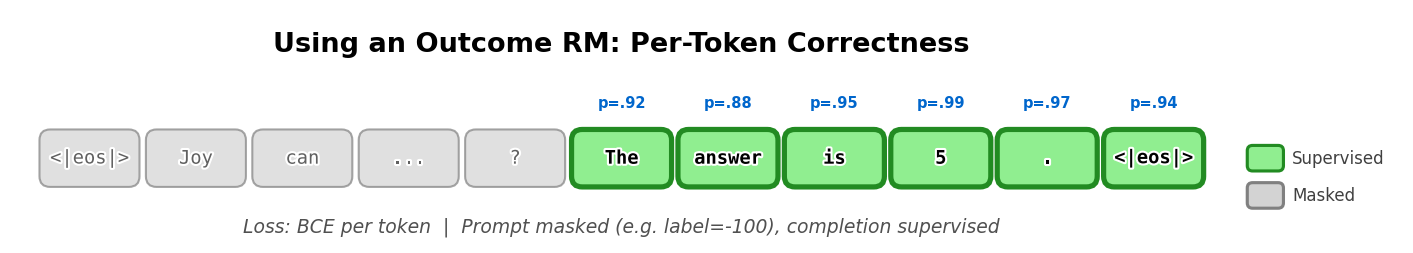
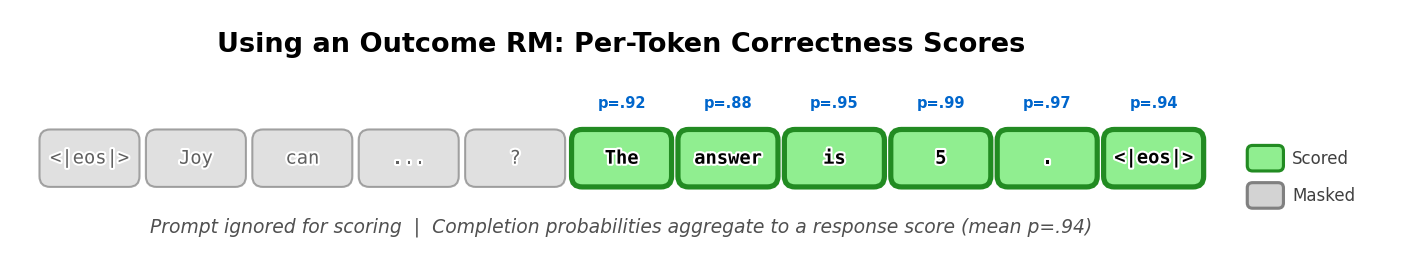
[codex] Clarify ORM inference figure (#423)

Changed region(s): [[0.1557, 0.1107, 0.7473, 0.2213], [0.0934, 0.8577, 0.7785, 0.9407], [0.903, 0.6087, 0.9965, 0.664]]

diff --git a/diagrams/scripts/generate_token_strips.py b/diagrams/scripts/generate_token_strips.py
@@ -34,6 +34,8 @@ class TokenStrip:
     annotation: str = ""
     # Optional: per-token labels to show above tokens
     token_labels: Optional[dict[int, str]] = None
+    highlight_label: str = "Supervised"
+    highlight_color_mode: str = "normal"  # "normal", "rejected", or "inference"
     # For multi-strip diagrams (e.g., chosen vs rejected, or training vs inference)
     secondary_strip: Optional["TokenStrip"] = None
     secondary_label: str = ""
@@ -190,6 +192,7 @@ def render_token_strip(
         y_offset=y_primary,
         box_w=box_w,
         box_h=box_h,
+        color_mode=strip.highlight_color_mode,
         label_prefix=strip.primary_label,
     )
 
@@ -243,7 +246,12 @@ def render_token_strip(
     legend_items = []
 
     if strip.highlight:
-        legend_items.append((COLOR_HIGHLIGHT, COLOR_BORDER_HIGHLIGHT, "Supervised"))
+        if strip.highlight_color_mode == "rejected":
+            legend_items.append((COLOR_REJECTED, COLOR_BORDER_REJECTED, strip.highlight_label))
+        elif strip.highlight_color_mode == "inference":
+            legend_items.append((COLOR_INFERENCE, COLOR_BORDER_INFERENCE, strip.highlight_label))
+        else:
+            legend_items.append((COLOR_HIGHLIGHT, COLOR_BORDER_HIGHLIGHT, strip.highlight_label))
     if strip.masked:
         legend_items.append((COLOR_MASKED, "#808080", "Masked"))
     if has_secondary:
@@ -350,11 +358,12 @@ STRIPS = [
     # Prompt masked, completion supervised
     TokenStrip(
         name="orm_inference",
-        title="Using an Outcome RM: Per-Token Correctness",
+        title="Using an Outcome RM: Per-Token Correctness Scores",
         tokens=["<|eos|>", "Joy", "can", "...", "?", "The", "answer", "is", "5", ".", "<|eos|>"],
         highlight={5, 6, 7, 8, 9, 10},  # completion tokens
         masked={0, 1, 2, 3, 4},  # prompt tokens
-        annotation="Loss: BCE per token  |  Prompt masked (e.g. label=-100), completion supervised",
+        annotation="Prompt ignored for scoring  |  Completion probabilities aggregate to a response score (mean p=.94)",
+        highlight_label="Scored",
         token_labels={
             5: "p=.92",
             6: "p=.88",

diff --git a/book/chapters/05-reward-models.md b/book/chapters/05-reward-models.md
@@ -316,7 +316,7 @@ loss = F.binary_cross_entropy_with_logits(
 The important intuition here is that an ORM will output a probability of correctness at every token in the sequence (judged only by the final answer -- reasoning errors are not captured in the ORM training process).
 This can be a noisy process, as the updates and loss propagate per token depending on outcomes and attention mappings.
 
-![At inference time, an outcome reward model outputs per-token correctness probabilities. Prompt tokens are masked (e.g., label=-100), while completion tokens each receive a probability indicating whether the model believes the response leads to a correct answer.](images/orm_inference.png){#fig:orm_inference}
+![At inference time, an outcome reward model outputs per-token correctness probabilities over completion tokens. Prompt tokens are ignored for scoring, and the completion probabilities can be aggregated into a response-level score for verification, filtering, or reranking.](images/orm_inference.png){#fig:orm_inference}
 
 ![Training an outcome reward model uses offline labels from a verifier or dataset (e.g., all 1s for correct completions). Each completion token is trained with binary cross-entropy against the outcome label, and per-token probabilities are aggregated into a final score for verification, filtering, or reranking.](images/orm_training.png){#fig:orm_training}
 
